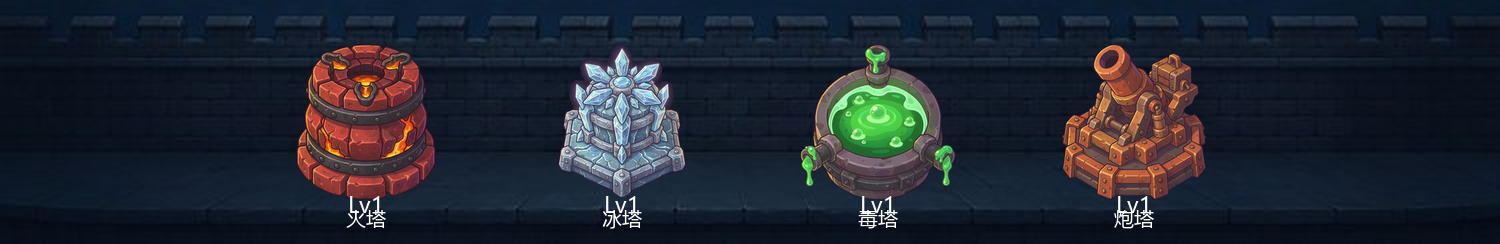
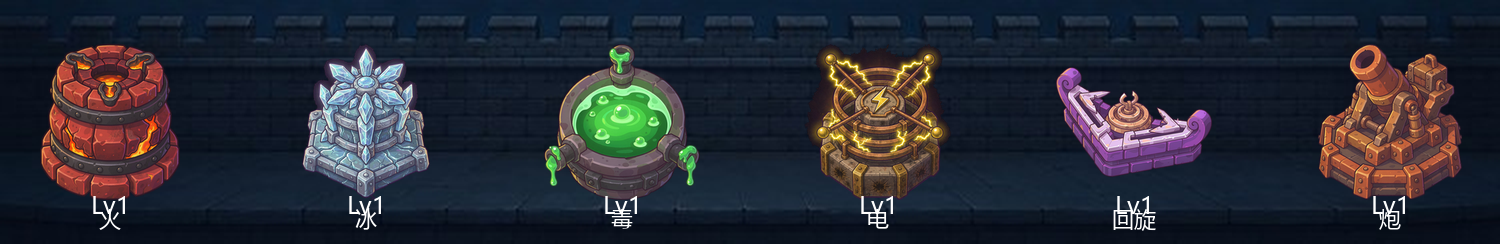
v1.17.15 art: 六塔俯视图标收官——电塔(八角线圈+闪电徽记)/回旋塔(V形双翼+发射盘)替换进游戏，六塔统一80%占比重抠，六塔同屏预览

diff --git a/tools/_keyout_towers_v11715.py b/tools/_keyout_towers_v11715.py
@@ -1,0 +1,147 @@
+# -*- coding: utf-8 -*-
+"""v1.17.15 塔图标替换流水线（六塔收官版）
+
+在 v1.17.14 基础上补电塔/回旋镖塔，六塔全部按 80% 占比重抠一遍，
+预览图改为六塔同屏接触表（含全局技能位跳过逻辑与四/六槽两种排布）。
+"""
+import os, shutil
+from collections import deque, Counter
+from PIL import Image, ImageFilter, ImageDraw, ImageFont
+
+ROOT = os.path.dirname(os.path.dirname(os.path.abspath(__file__)))
+os.chdir(ROOT)
+ART = "art/towers_v1"
+TOWERS = "assets/images/towers"
+BK = os.path.join(ART, "backup_sideview")
+os.makedirs(BK, exist_ok=True)
+
+# 六塔：原图 → 资产文件
+JOBS = [
+    ("tower_fire_top_v1.png", "fire.png"),
+    ("tower_ice_top_v1.png", "ice.png"),
+    ("tower_poison_top_v2.png", "poison.png"),
+    ("tower_electric_top_v1.png", "electric.png"),
+    ("tower_boomerang_top_v1.png", "boomerang.png"),
+    ("tower_cannon_top_v1.png", "cannon.png"),
+]
+TOL = 10.0     # 背景与描边色距 ~15，取 10 保描边
+RATIO = 0.80   # 主体占画布比例
+
+
+def keyout(fp_in, tol=TOL, ratio_target=RATIO):
+    im = Image.open(fp_in).convert("RGB")
+    w, h = im.size
+    px = im.load()
+    border = []
+    for x in range(w):
+        border.append(px[x, 0]); border.append(px[x, h - 1])
+    for y in range(h):
+        border.append(px[0, y]); border.append(px[w - 1, y])
+    bg = Counter(border).most_common(1)[0][0]
+    t2 = tol * tol
+
+    def isbg(c):
+        dr = c[0] - bg[0]; dg = c[1] - bg[1]; db = c[2] - bg[2]
+        return dr * dr + dg * dg + db * db <= t2
+
+    bgmask = bytearray(w * h)
+    q = deque()
+    for x in range(w):
+        for y in (0, h - 1):
+            i = y * w + x
+            if not bgmask[i] and isbg(px[x, y]):
+                bgmask[i] = 1; q.append((x, y))
+    for y in range(h):
+        for x in (0, w - 1):
+            i = y * w + x
+            if not bgmask[i] and isbg(px[x, y]):
+                bgmask[i] = 1; q.append((x, y))
+    while q:
+        x, y = q.popleft()
+        for nx, ny in ((x + 1, y), (x - 1, y), (x, y + 1), (x, y - 1)):
+            if 0 <= nx < w and 0 <= ny < h:
+                i = ny * w + nx
+                if not bgmask[i] and isbg(px[nx, ny]):
+                    bgmask[i] = 1; q.append((nx, ny))
+    ratio = sum(bgmask) / (w * h)
+
+    # 前景连通域过滤：丢弃 < 最大岛 1% 的碎片（水印/噪点）
+    fg = bytearray(1 - b for b in bgmask)
+    seen = bytearray(w * h)
+    keep = bytearray(w * h)
+    comps = []
+    for i in range(w * h):
+        if fg[i] and not seen[i]:
+            comp = []
+            q = deque([i]); seen[i] = 1
+            while q:
+                j = q.popleft(); comp.append(j)
+                x, y = j % w, j // w
+                for nx, ny in ((x + 1, y), (x - 1, y), (x, y + 1), (x, y - 1)):
+                    if 0 <= nx < w and 0 <= ny < h:
+                        k = ny * w + nx
+                        if fg[k] and not seen[k]:
+                            seen[k] = 1; q.append(k)
+            comps.append(comp)
+    comps.sort(key=len, reverse=True)
+    biggest = len(comps[0]) if comps else 0
+    for comp in comps:
+        if len(comp) >= biggest * 0.01:
+            for j in comp:
+                keep[j] = 1
+
+    alpha = Image.frombytes("L", (w, h), bytes(255 if keep[i] else 0 for i in range(w * h)))
+    alpha = alpha.filter(ImageFilter.GaussianBlur(1.0))
+    rgba = im.convert("RGBA")
+    rgba.putalpha(alpha)
+
+    bbox = alpha.point(lambda v: 255 if v > 12 else 0).getbbox()
+    if not bbox:
+        raise RuntimeError("抠图后主体为空: " + fp_in)
+    subj = rgba.crop(bbox)
+    sw, sh = subj.size
+    side = int(max(sw, sh) / ratio_target)
+    canvas = Image.new("RGBA", (side, side), (0, 0, 0, 0))
+    canvas.paste(subj, ((side - sw) // 2, (side - sh) // 2), subj)
+    out = canvas.resize((256, 256), Image.LANCZOS)
+    print("  bg=%s 删背景%.0f%% 主体%dx%d" % (bg, ratio * 100, sw, sh))
+    return out
+
+
+previews = []
+for src, dst in JOBS:
+    fp_src = os.path.join(ART, src)
+    if not os.path.exists(fp_src):
+        print("跳过（缺原图）", fp_src)
+        previews.append(None)
+        continue
+    out = keyout(fp_src)
+    out.save(os.path.join(TOWERS, dst))
+    print("写入", dst, out.size)
+    previews.append(out)
+
+# ---- 游戏内预览：六塔同屏接触表 ----
+S = 2
+row = Image.open("assets/images/ui/tower_row_dark.jpg").convert("RGB")
+W, H = row.size[0] * S, row.size[1] * S
+cv = row.resize((W, H), Image.LANCZOS).convert("RGBA")
+slot = 100 * S; gap = 28 * S
+itemN = 6
+x0 = int((750 * S - (itemN * slot + (itemN - 1) * gap)) / 2)
+slotY = 12 * S
+names = ["火", "冰", "毒", "电", "回旋", "炮"]
+d = ImageDraw.Draw(cv)
+try:
+    font = ImageFont.truetype("C:/Windows/Fonts/msyh.ttc", 22)
+    font2 = ImageFont.truetype("C:/Windows/Fonts/msyh.ttc", 24)
+except Exception:
+    font = font2 = ImageFont.load_default()
+for i, ic in enumerate(previews):
+    if ic is None:
+        continue
+    x = x0 + i * (slot + gap)
+    cv.alpha_composite(ic.resize((98 * S, 98 * S), Image.LANCZOS), (x + 1 * S, slotY))
+    d.text((x + slot // 2, slotY + slot - 20), "Lv1", fill=(255, 255, 255, 190), font=font2, anchor="mm")
+    d.text((x + slot // 2, H - 26), names[i], fill=(255, 255, 255, 220), font=font, anchor="mm")
+cv.convert("RGB").save(os.path.join(ART, "preview_in_game.png"))
+print("预览:", os.path.join(ART, "preview_in_game.png"))
